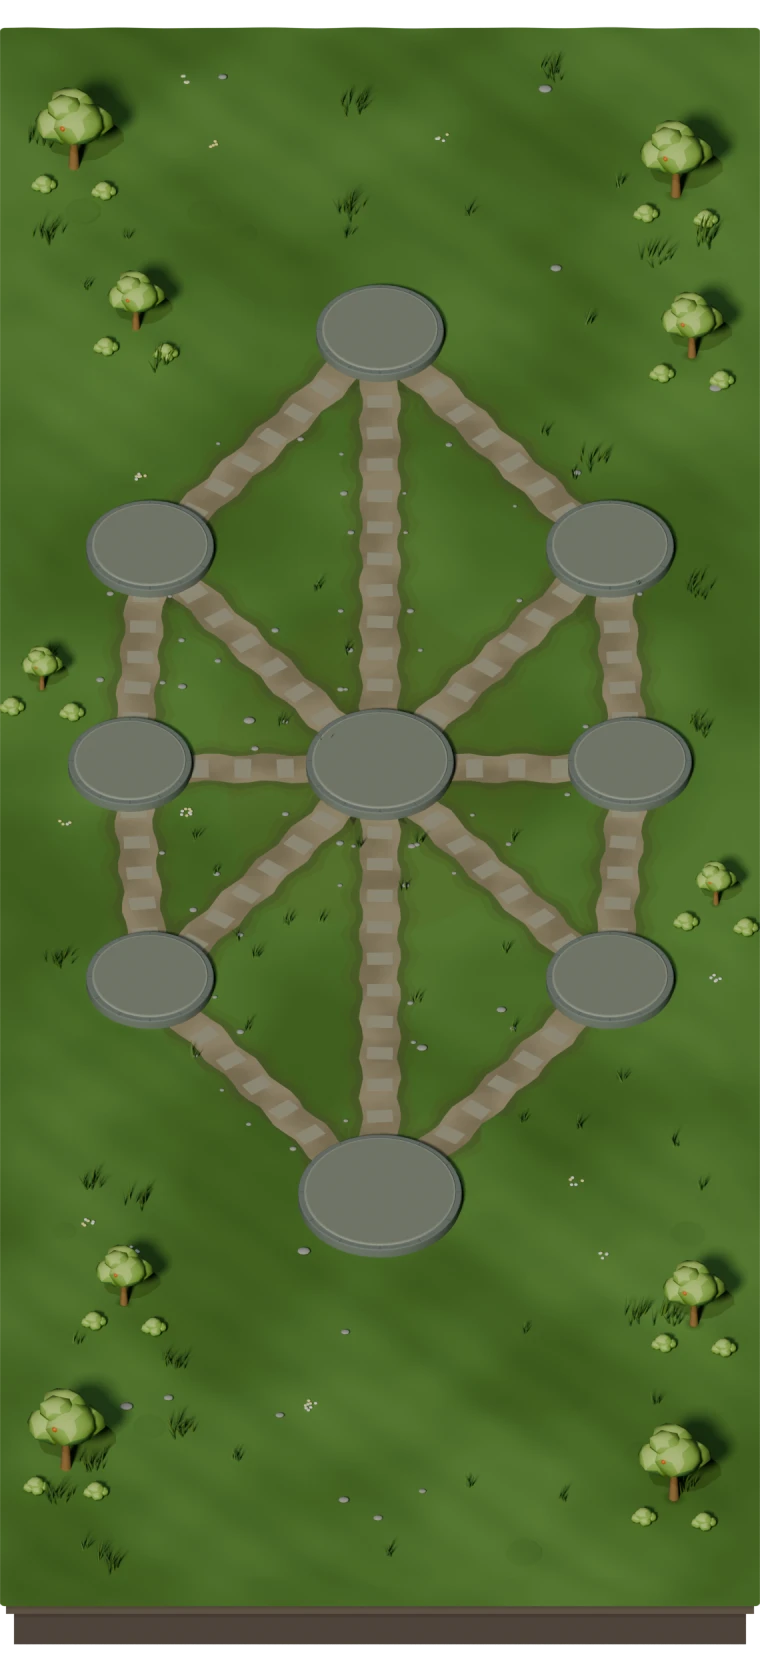
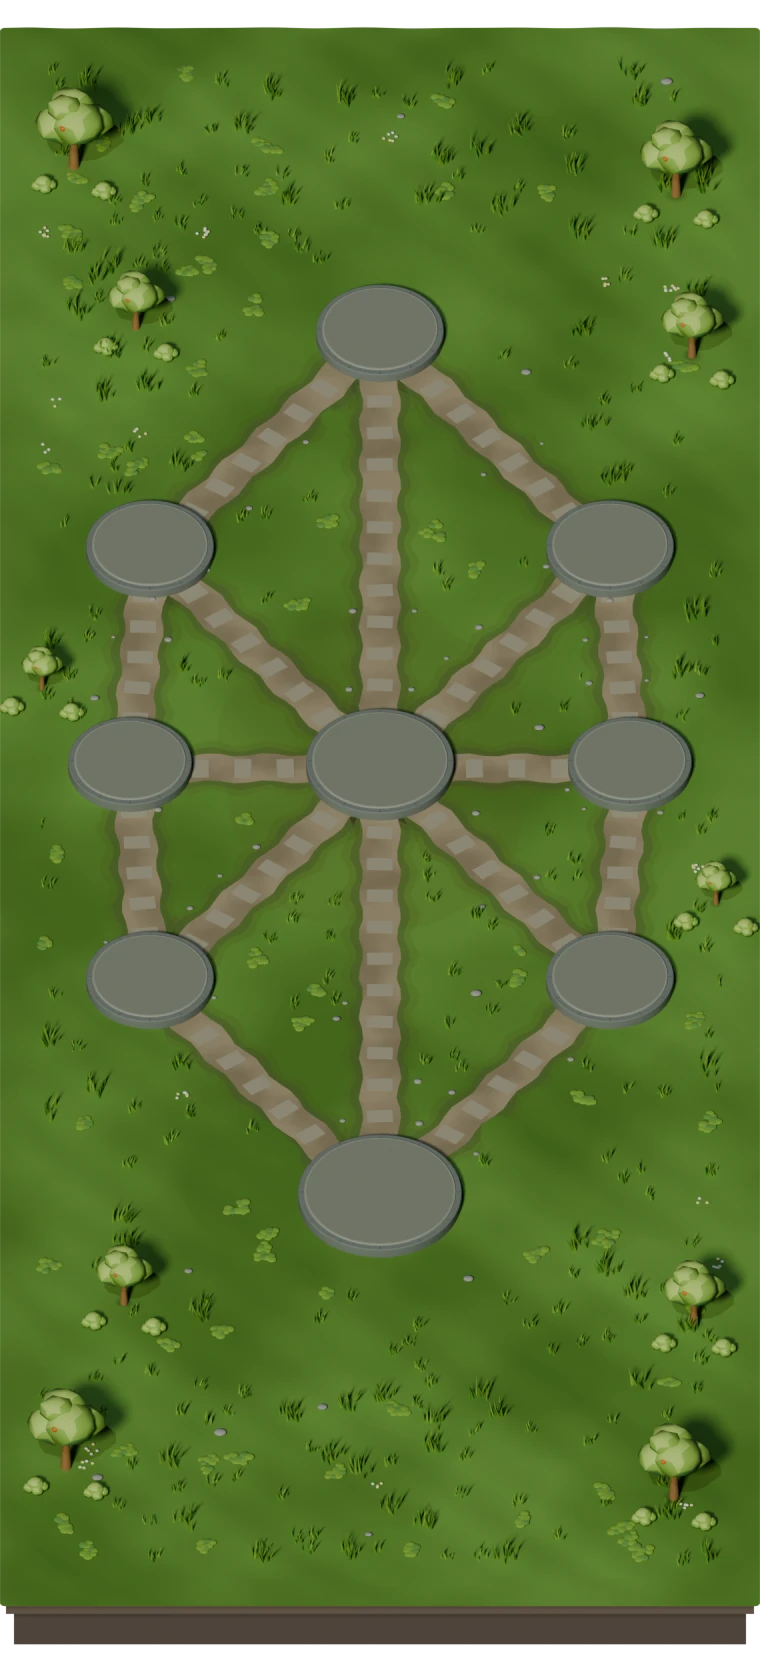
Fill battlefields with lush baked grass and clover cover

diff --git a/art/blender/crown_cross_kit.py b/art/blender/crown_cross_kit.py
@@ -40,7 +40,34 @@ def box(name, size, loc, mat, bevel=.025, rot=None, bevel_segments=2):
     return ob
 
 
-def cyl(name, r, depth, loc, mat, vertices=16, rot=None, r2=None, smooth=False):
+def cyl(name, r, depth, loc, mat, vertices=16, rot=None, r2=None, smooth=False, batch=None):
+    if batch is not None:
+        # Thousands of sub-pixel ground blades share one mesh. Avoid one bpy
+        # operator, bevel and dependency-graph update for every tiny cone.
+        start = len(batch['vertices'])
+        rx, ry, rz = rot or (0.0, 0.0, 0.0)
+        sx, cx = math.sin(rx), math.cos(rx)
+        sy, cy = math.sin(ry), math.cos(ry)
+        sz, cz = math.sin(rz), math.cos(rz)
+        for radius, z in ((r, -depth / 2), (r if r2 is None else r2, depth / 2)):
+            for i in range(vertices):
+                a = i * math.tau / vertices
+                x, y = radius * math.cos(a), radius * math.sin(a)
+                y, zz = y * cx - z * sx, y * sx + z * cx
+                x, zz = x * cy + zz * sy, -x * sy + zz * cy
+                x, y = x * cz - y * sz, x * sz + y * cz
+                batch['vertices'].append((x + loc[0], y + loc[1], zz + loc[2]))
+        faces = [tuple(start + i for i in reversed(range(vertices))),
+                 tuple(start + vertices + i for i in range(vertices))]
+        faces.extend((start + i, start + (i + 1) % vertices,
+                      start + vertices + (i + 1) % vertices, start + vertices + i)
+                     for i in range(vertices))
+        if mat not in batch['materials']:
+            batch['materials'].append(mat)
+        material_index = batch['materials'].index(mat)
+        batch['faces'].extend(faces)
+        batch['material_indices'].extend([material_index] * len(faces))
+        return None
     if r2 is None:
         bpy.ops.mesh.primitive_cylinder_add(vertices=vertices, radius=r, depth=depth, location=loc)
     else:
@@ -1256,6 +1283,7 @@ def _ground_scatter(battlefield_id, bf, mats, terrain_z, roads):
     rng = random.Random(104729)
     for ch in battlefield_id:
         rng.seed(rng.random() * 1048576.0 + ord(ch))
+    grass_batch = {'vertices': [], 'faces': [], 'materials': [], 'material_indices': []}
 
     # Client sprites and baked ground foliage share one art-only exclusion
     # source, so a regeneration cannot plant bushes on the river or court.
@@ -1294,9 +1322,11 @@ def _ground_scatter(battlefield_id, bf, mats, terrain_z, roads):
         if battlefield_id == 'royal_ring':
             return math.hypot(x, feature_y - 38.0) < 108.0
         if battlefield_id == 'quad_citadel':
-            if abs(x) < 48.0 and abs(feature_y - 38.0) < 250.0:
+            if abs(x) < 28.0 and abs(feature_y - 38.0) < 250.0:
                 return True
-            return any(abs(x - cx) < 92.0 and abs(feature_y - cy) < 103.0
+            # Keep the camp cores trampled, with grass reclaiming their
+            # outer verges instead of leaving large rectangular empty lawns.
+            return any(math.hypot((x - cx) / 66.0, (feature_y - cy) / 76.0) < 1.0
                        for cx, cy in ((-88.0, 174.0), (88.0, 174.0), (-88.0, -102.0), (88.0, -102.0)))
         return False
 
@@ -1315,27 +1345,26 @@ def _ground_scatter(battlefield_id, bf, mats, terrain_z, roads):
 
     def reserve(x, y):
         for px, py in placed:
-            if math.hypot(x - px, y - py) < 13.0:
+            if math.hypot(x - px, y - py) < 9.0:
                 return False
         placed.append((x, y))
         return True
 
     def tuft(x, y, tall=False):
-        z0 = terrain_z(x, y)
-        blades = (12 if tall else 4) + int(rng.random() * (7 if tall else 3))
+        blades = (12 if tall else 7) + int(rng.random() * 4)
         for i in range(blades):
             a = rng.random() * math.tau
-            r = 1.0 + rng.random() * (7.5 if tall else 1.6)
-            depth = (7.5 + rng.random() * 5.0) if tall else (5.5 + rng.random() * 4.5)
+            r = .8 + rng.random() * (6.0 if tall else 3.0)
+            depth = (6.5 + rng.random() * 4.0) if tall else (3.5 + rng.random() * 3.0)
             blade_x = x + r * math.cos(a)
             blade_y = y + r * math.sin(a)
-            if in_identity_zone(blade_x, blade_y):
+            if blocked(blade_x, blade_y):
                 continue
             mat = (mats['leaf_tall'] if tall else mats['leaf']) if i % 2 else mats['leaf_dark']
-            cyl('ground blade', .55, depth,
+            cyl('ground blade', .8 if tall else .65, depth,
                 (blade_x, blade_y, terrain_z(blade_x, blade_y) + depth / 2.0 - .6),
-                mat, 5, r2=.08,
-                rot=(rng.random() * .35, rng.random() * .35, a))
+                mat, 5, r2=.10,
+                rot=(rng.random() * .35, rng.random() * .35, a), batch=grass_batch)
 
     def flower_cluster(x, y):
         count = 3 + int(rng.random() * 6)
@@ -1350,21 +1379,32 @@ def _ground_scatter(battlefield_id, bf, mats, terrain_z, roads):
                 mats['flower_light'] if white else mats['flower_dark'], scale=(1.0, 1.0, .5))
 
     def clover_patch(x, y):
-        ico('clover patch', 5.0 + rng.random() * 4.0, (x, y, terrain_z(x, y) + .05),
-            mats['clover'], scale=(1.1, 1.15, .16))
+        # Low, overlapping leaf rosettes read as living ground cover after
+        # mobile downsampling, instead of almost invisible transparent discs.
+        for _ in range(4):
+            a = rng.random() * math.tau
+            r = rng.random() * 5.5
+            cx, cy = x + r * math.cos(a), y + r * math.sin(a)
+            for leaf in range(3):
+                angle = a + leaf * math.tau / 3.0
+                lx, ly = cx + 1.6 * math.cos(angle), cy + 1.6 * math.sin(angle)
+                if blocked(lx, ly):
+                    continue
+                ico('clover patch', 1.8 + rng.random() * .7,
+                    (lx, ly, terrain_z(lx, ly) + .45),
+                    mats['clover'] if leaf % 2 else mats['leaf'], scale=(1.1, 1.0, .24))
 
     def pebble(x, y):
         ico('ground pebble', 1.4 + rng.random() * 1.2, (x, y, terrain_z(x, y) + 1.2),
             mats['stone'], scale=(1.3, 1.0, .45))
 
-    # Quiet open lawns and clustered edge growth. Tiny evenly scattered
-    # specks read as compression noise at 360px; larger patches survive the
-    # downscale and keep the active tactical lanes clear.
-    for kind, count in (('tuft', 28), ('patch', 22), ('flower', 12), ('clover', 8), ('pebble', 16)):
+    # Dense meadow carpet between the tactical lanes, with taller growth
+    # concentrated in the fringe. All detail is baked into the one plate.
+    for kind, count in (('clover', 64), ('tuft', 190), ('patch', 70), ('flower', 18), ('pebble', 16)):
         made = misses = 0
         while made < count and misses < 500:
             misses += 1
-            position = spot(edge_only=(kind in ('patch', 'flower', 'clover')))
+            position = spot(edge_only=(kind in ('patch', 'flower')))
             if position is None:
                 continue
             x, y = position
@@ -1409,6 +1449,17 @@ def _ground_scatter(battlefield_id, bf, mats, terrain_z, roads):
                         if not in_identity_zone(tx, ty):
                             tuft(tx, ty)
 
+    if grass_batch['vertices']:
+        mesh = bpy.data.meshes.new('baked meadow blades')
+        mesh.from_pydata(grass_batch['vertices'], [], grass_batch['faces'])
+        for material in grass_batch['materials']:
+            mesh.materials.append(material)
+        for polygon, material_index in zip(mesh.polygons, grass_batch['material_indices']):
+            polygon.material_index = material_index
+        mesh.update()
+        meadow = bpy.data.objects.new('baked meadow blades', mesh)
+        bpy.context.collection.objects.link(meadow)
+
 
 def _ground_bottom_fade(field, make_material):
     """Feather the bottom edge into the client's flat fill colour.
@@ -1427,10 +1478,10 @@ def _ground_bottom_fade(field, make_material):
 # cooler highland sage, palace greens and olive camp grass give each map
 # an identity without changing the authoritative palette/fallback data.
 GROUND_GRASS_PALETTES = {
-    'crown_cross': ((.095, .205, .035), (.15, .30, .065)),
-    'twin_passes': ((.055, .15, .10), (.10, .24, .15)),
-    'royal_ring': ((.065, .20, .045), (.125, .29, .075)),
-    'quad_citadel': ((.12, .18, .045), (.21, .28, .085)),
+    'crown_cross': ((.105, .235, .035), (.17, .35, .065)),
+    'twin_passes': ((.055, .18, .10), (.105, .28, .15)),
+    'royal_ring': ((.07, .23, .045), (.14, .34, .075)),
+    'quad_citadel': ((.12, .21, .045), (.21, .32, .085)),
 }
 
 
@@ -1608,10 +1659,10 @@ def ground_plate(battlefield_id, make_material):
                                 (.21, .21, .10), .20),
         'paving': make_material('rgx_paving', (.40, .37, .25), .9, use_gradient=False),
         'ao': _flat_alpha('rgx_ao', make_material, (.03, .045, .025), .07),
-        'leaf': make_material('rgx_leaf', (.15, .27, .06), .85, use_gradient=False),
-        'leaf_dark': make_material('rgx_leafd', (.08, .18, .04), .85, use_gradient=False),
-        'leaf_tall': make_material('rgx_leaft', (.13, .23, .04), .85, use_gradient=False),
-        'clover': _flat_alpha('rgx_clover', make_material, (.11, .24, .055), .06),
+        'leaf': make_material('rgx_leaf', (.24, .43, .065), .85, use_gradient=False),
+        'leaf_dark': make_material('rgx_leafd', (.12, .29, .04), .85, use_gradient=False),
+        'leaf_tall': make_material('rgx_leaft', (.20, .37, .05), .85, use_gradient=False),
+        'clover': make_material('rgx_clover', (.16, .34, .075), .9, use_gradient=False),
         'stone': make_material('rgx_stone', (.36, .35, .31), .9, use_gradient=False),
         'flower_light': make_material('rgx_flowerl', (.92, .90, .80), .8, use_gradient=False),
         'flower_dark': make_material('rgx_flowerd', (.95, .82, .35), .8, use_gradient=False),

diff --git a/ART_BIBLE.md b/ART_BIBLE.md
@@ -1,5 +1,5 @@
 # Crown Clash — Art Bible & Visual Direction
-**Version:** 1.3
+**Version:** 1.4
 **Target Platform:** Mobile WebViews (Bale, Eitaa, Telegram, Mobile Web)
 **Visual Style:** Stylized 2.5D (Blender renders → optimized 2D sprites at runtime)
 **Primary Goal:** Instant tactical readability, bright volumetric cartoon environments, and polished composition on compact mobile screens.
@@ -14,6 +14,11 @@ This environment revision preserves shared troops and HUD design.
 **v1.3:** wider vertical building spacing through `art/arena-layout.json`:
 positions expand by `1.22` before the same camera projection, while sprite sizes,
 plinth shapes, counts and authoritative travel rules stay unchanged.
+
+**v1.4:** lush baked meadow cover: dense short grass and clover rosettes between
+the paths, taller grass in the fringe, and brighter map-specific greens. All
+growth stays in the existing ground texture; tactical lanes and reserved features
+remain clear and runtime prop counts stay capped at 24.
 
 ---
 
@@ -285,9 +290,12 @@ preload and runtime optimization; `docs/art/README.md` lists commands.
   Keep the contested center quiet and the top/bottom fringe deliberately composed.
 * **Vector fallback:** if a plate is missing or inactive, GameScene uses its existing
   flat painted layers. The environment revision preserves this loading-error path.
-* **Grass dressing:** grouped low-contrast tufts support the terrain rather than
-  covering it with scattered marks. Shared rendered props stay off roads, sockets,
-  the arena frame and reserved art zones; baked scatter follows the same zones.
+* **Grass dressing:** dense, low clover rosettes and broad short grass blades fill
+  the available meadow between routes; taller clumps concentrate in the fringe.
+  Use living green material tones and soft contact shadows. Grass/leaf anchors
+  avoid roads, sockets and reserved river/court zones; camp cores remain trampled,
+  with greenery reclaiming their outer verges. Bake the cover into the ground plate
+  so texture dimensions, runtime prop counts and draw calls do not grow.
 * **Territory platforms:** socket radius = `territory radius + 5px`, except the
   top citadel (`32px`) and Quad Citadel's bespoke sockets (`23/36/29px` for
   tiers 1/2/3); Quad Citadel needs these compact sizes because its

diff --git a/docs/art/README.md b/docs/art/README.md
@@ -1,6 +1,6 @@
 # Battlefield Art Pipeline (Blender → Runtime)
 
-Deterministic 2.5D battlefield art pipeline, Art Bible v1.3: bright cartoon
+Deterministic 2.5D battlefield art pipeline, Art Bible v1.4: bright cartoon
 volumes, warm pale stone, natural terrain color masses and clustered foliage.
 The visual direction lives in
 [`ART_BIBLE.md`](../../ART_BIBLE.md) (sections 2–8, 10–15).
@@ -78,6 +78,13 @@ reference an unloaded texture.
   border clusters replace repeated mowing stripes and scattered tiny marks.
   Broad light variation comes from the grass material; translucent sun-pool discs
   are not layered over the terrain.
+  Lush cover is baked in `_ground_scatter`: overlapping clover rosettes and dense
+  short tufts fill available lawns, with taller clumps in the fringe. Green blades
+  and leaves check road/socket clearance as well as shared reserved zones. Camp
+  cores stay trampled while their outer verges regrow. This adds no runtime prop
+  images, shader effects or texture pixels. Tiny grass cones share one baked
+  Blender mesh/material set, avoiding thousands of object/operator updates during
+  export; the normal building and prop primitive helpers keep their existing path.
   Raised stone plinth tops retain the `6.2` world-pixel lift contract with
   `PLINTH_TOP_LIFT`; `groundPlateImageRect` centers each image on the projected world
   rect so roads and sockets align exactly. No gameplay coordinate, touch radius,
